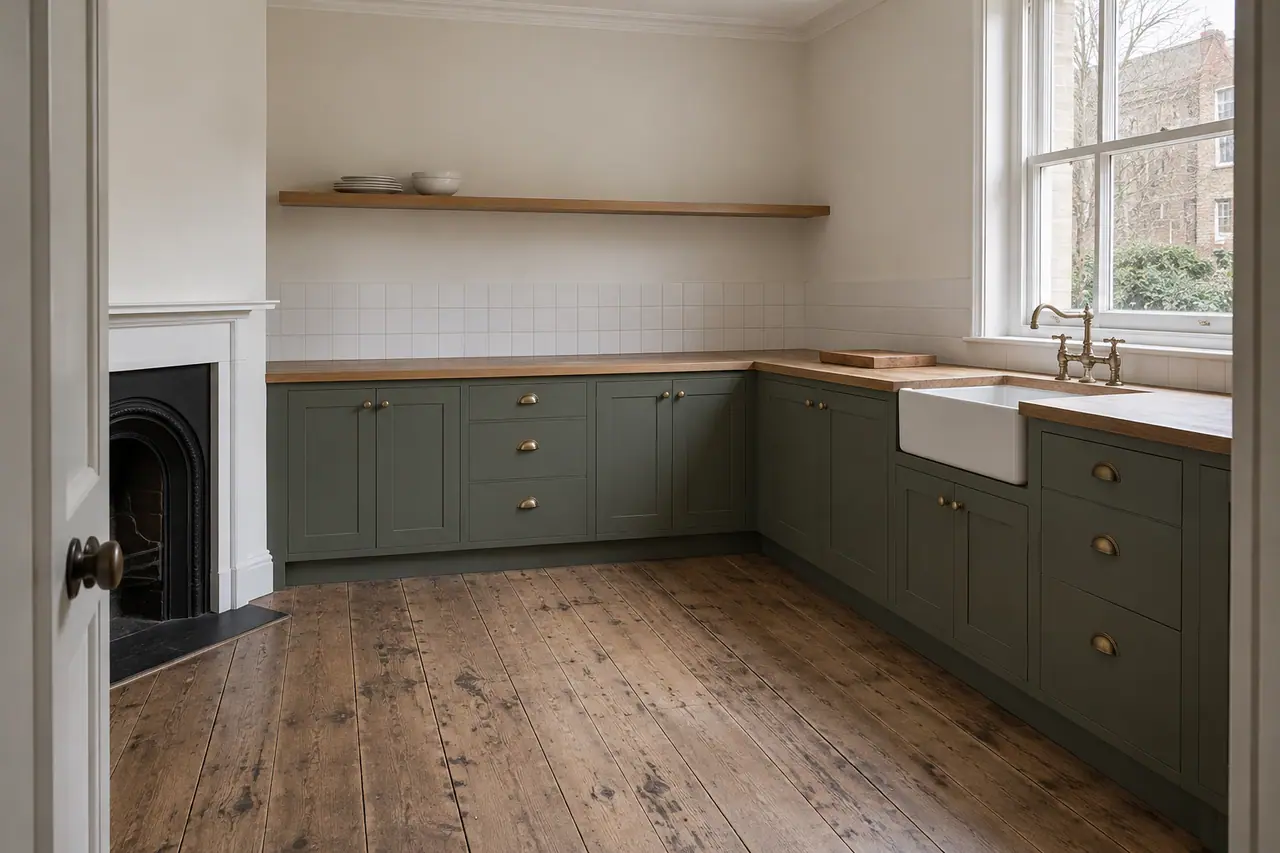
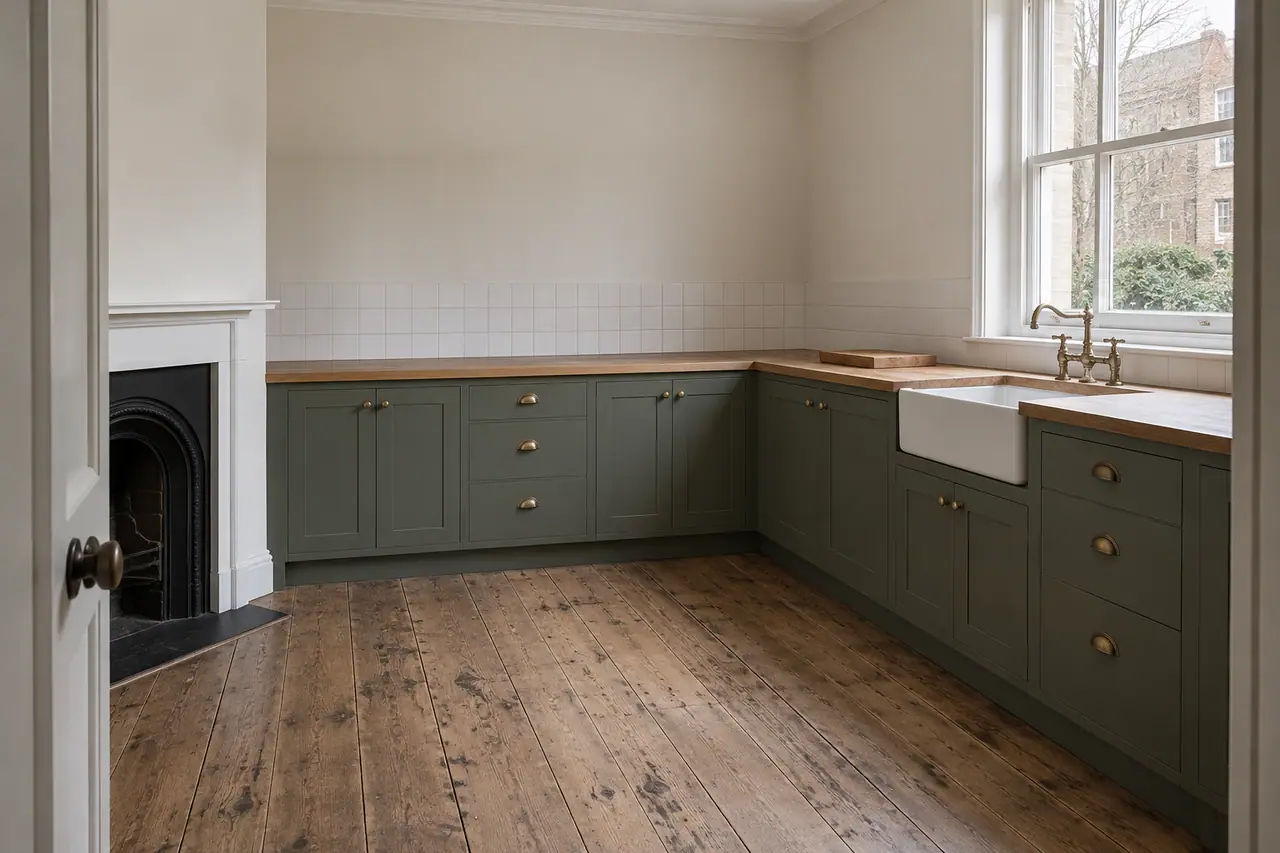
Kentish Town kitchen render: the oak shelf painted out; alt names the colour as olive-green (independent check, 21 Nov)
An independent check found the shelf ran past the corner and ended in mid-air, and was not level
against its own wall. Painted off the plain wall, each column filled from the clean wall above to the
tiles; alt and description no longer mention it, and name the colour as the checkers saw it.

Changed region(s): [[0.1875, 0.1829, 0.6562, 0.3048]]

diff --git a/src/data/areas.ts b/src/data/areas.ts
@@ -348,7 +348,8 @@ export const AREAS: Area[] = [
        no wardrobe photograph. None is a recorded job in Kentish Town.
        21 Nov 2026, Denis on the review link: ssp-020 "is the exact kitchen photo as the one in
        Islington", so it is replaced by an AI painted Shaker kitchen in a different room (Figma node
-       57:9, file d0AWnKDiTyYDbBrrCsE4NS), made and checked to the render protocol (sections 5 and 8).
+       57:9, file d0AWnKDiTyYDbBrrCsE4NS), made and checked to the render protocol (sections 5 and 8);
+       an oak shelf that ran past the corner and was not level was painted off the plain wall.
        The register's only other kitchens are live on the site already or marked not publishable.
        ssp-019 stays: it is a different view, but of the same May 2025 kitchen as Islington's ssp-051. */
     plates: [
@@ -358,7 +359,7 @@ export const AREAS: Area[] = [
         ai: true,
         width: 1536,
         height: 1024,
-        alt: "Painted Shaker kitchen in an L along two walls of a period room: muted green-grey doors in pairs with small round brass knobs, banks of drawers with brass cup handles, an oak worktop and a white butler sink with a brass bridge tap under the sash window. A plain oak shelf with a few plates runs above, and a white fireplace with a black cast-iron insert stands on the left.",
+        alt: "Painted Shaker kitchen in an L along two walls of a period room: deep olive-green doors in pairs with small round brass knobs, banks of drawers with brass cup handles, an oak worktop with a chopping board, and a white butler sink with a brass bridge tap under the sash window. A white fireplace with a black cast-iron insert stands on the left.",
       },
       {
         file: "/images/library/ssp-019.webp",
